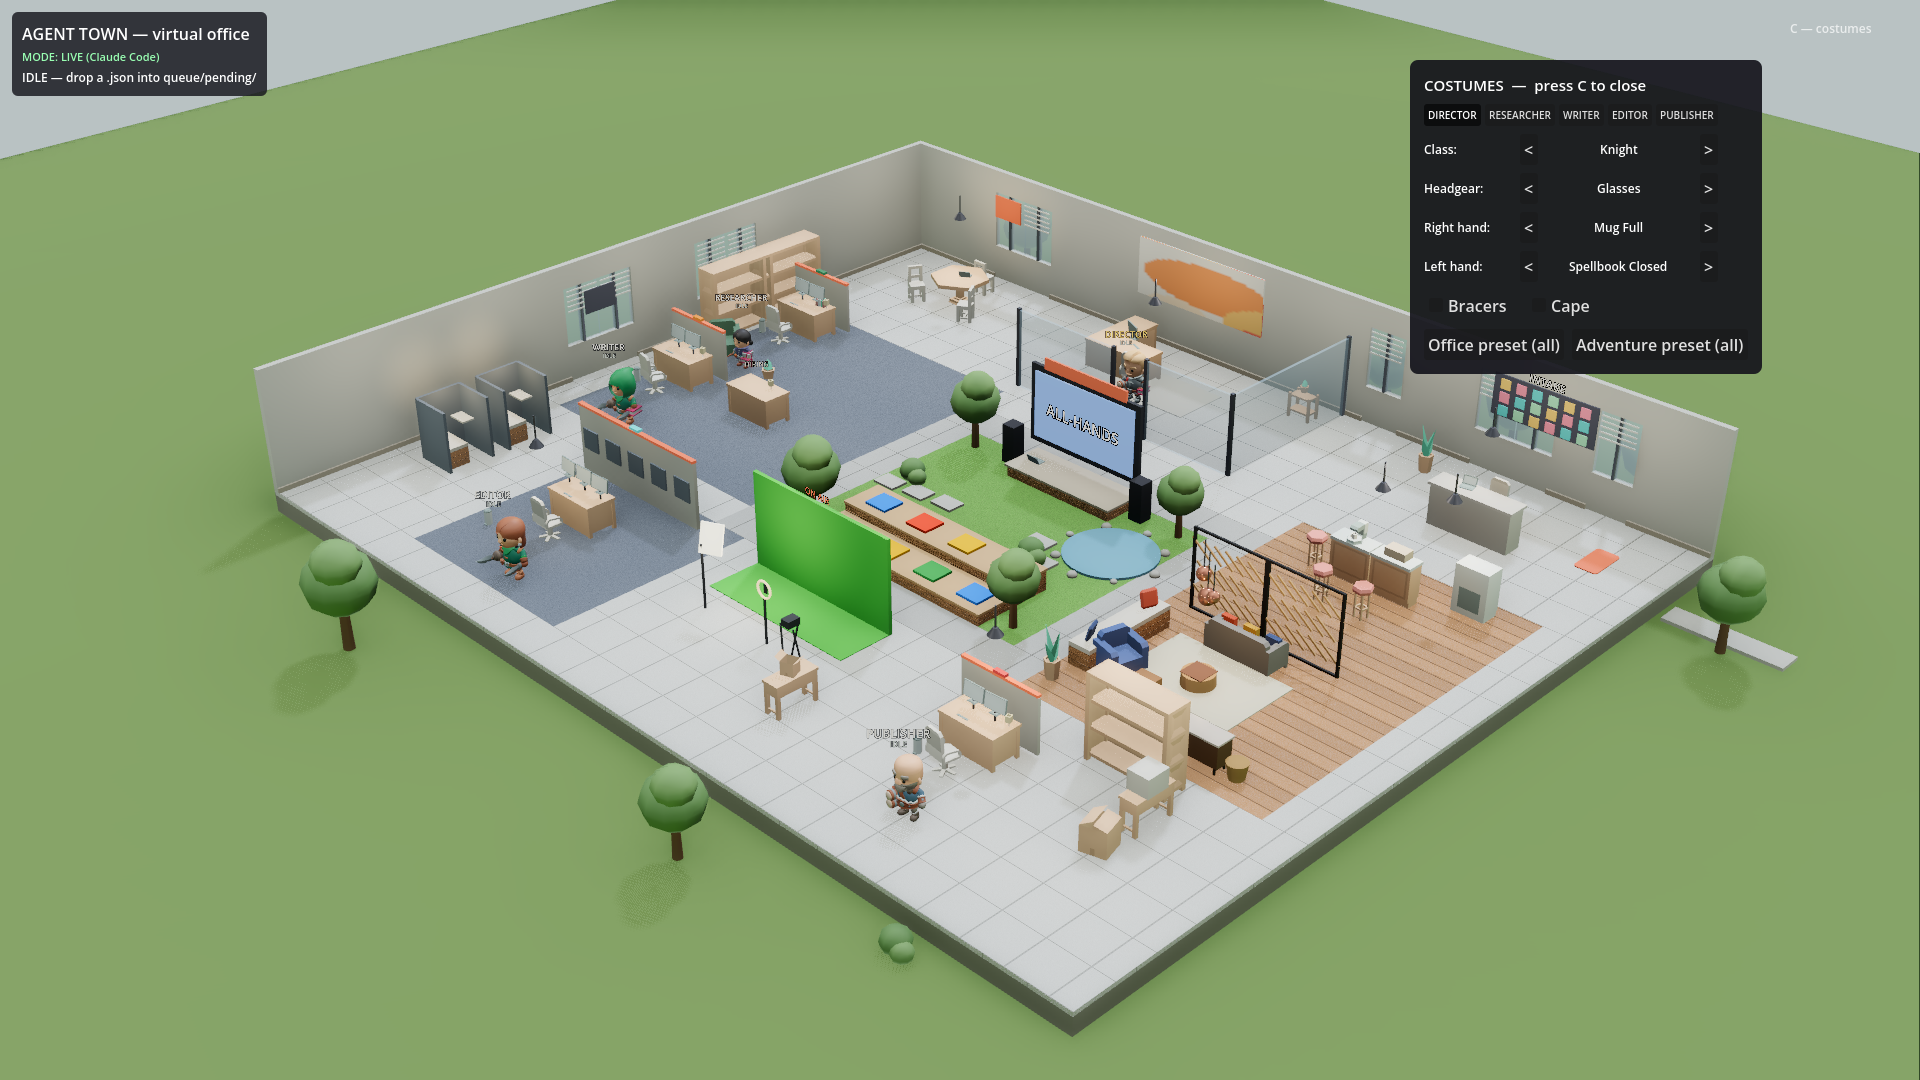
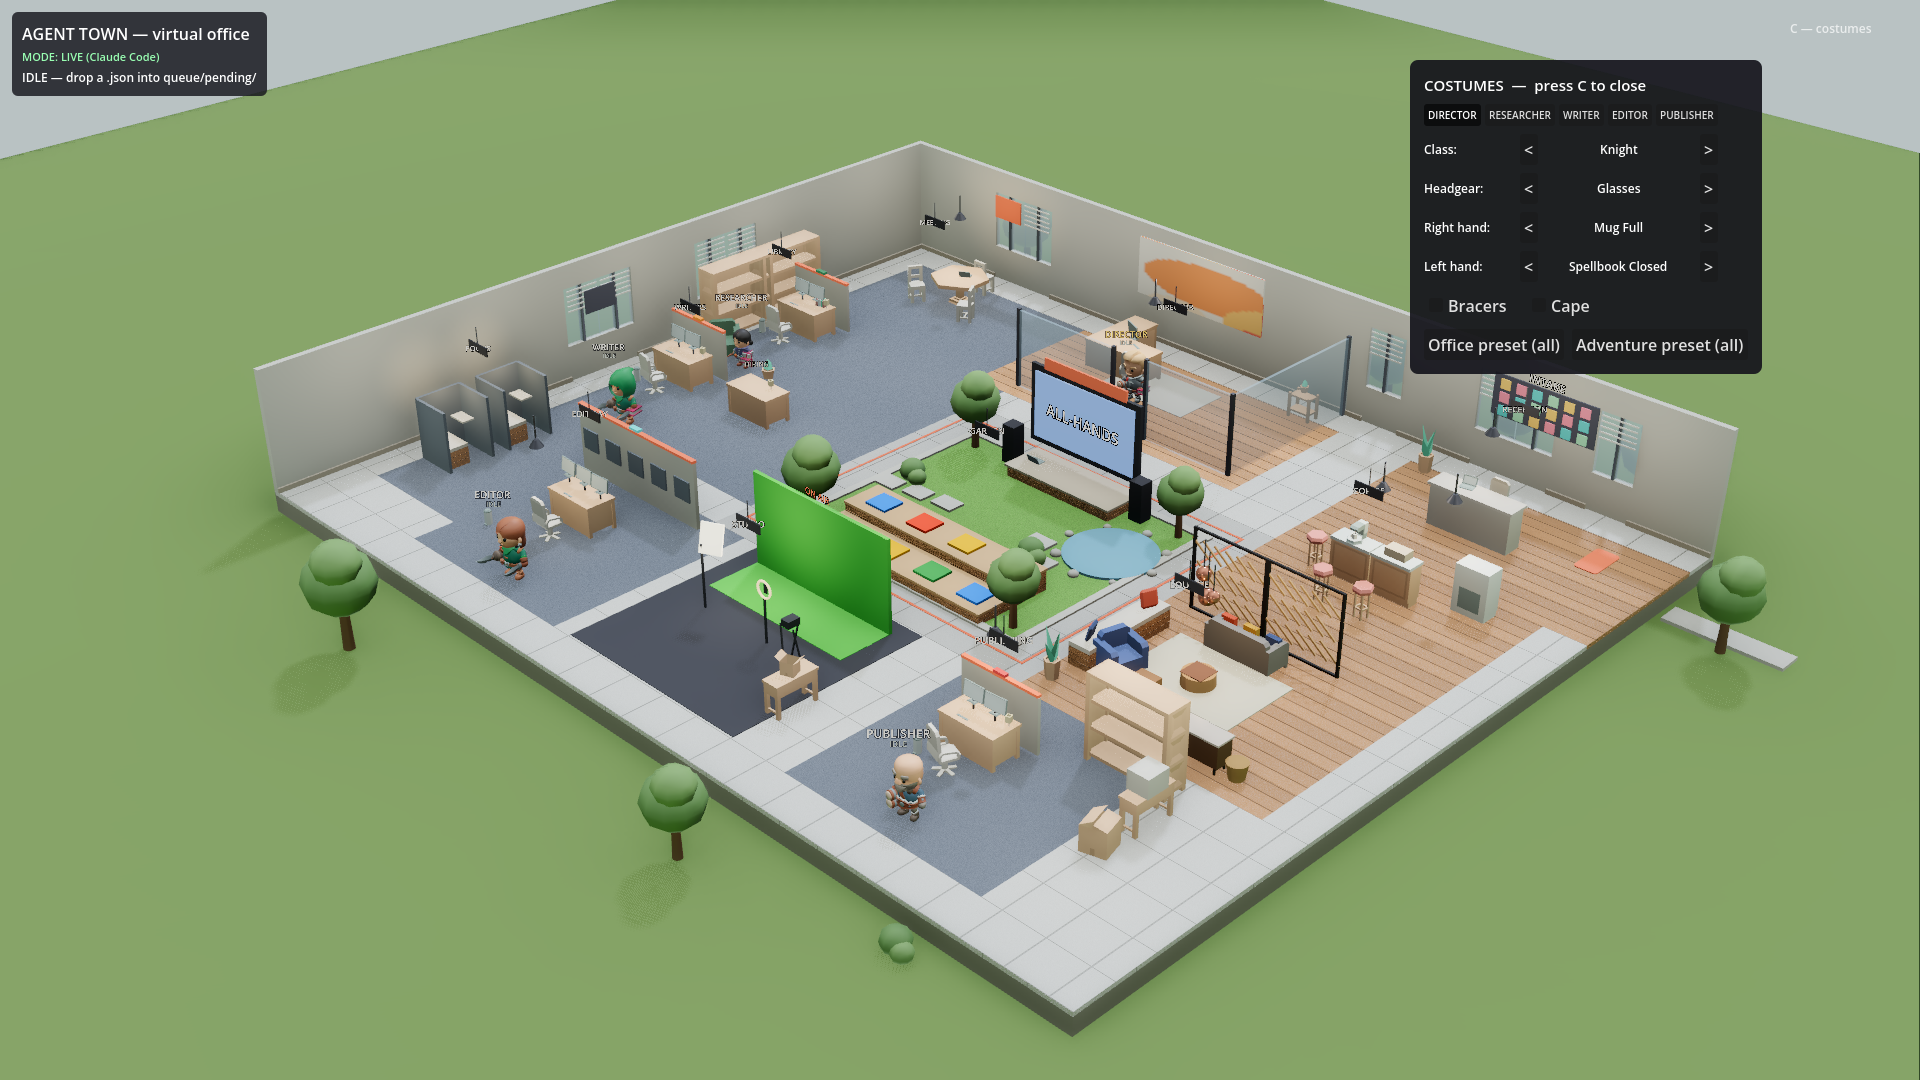
Zone separation + purpose signage (flooring-as-wayfinding)
Per critique: areas didn't separate and rooms didn't declare purpose.
Flooring research: material transitions are the strongest no-wall zone
boundary; hard corridor vs soft task zones; high-contrast circulation.
- per-zone floors: meeting/library/writers/edit/publishing = carpet,
  director = light wood, reception = hospitality deck, studio = matte
  charcoal stage floor, loop corridor stays hard dark concrete
- coral guideline traces the loop corridor's inner edge
- stone border frames the courtyard grass (crisp garden edge)
- hanging signage plates name all 12 zones

diff --git a/tools/generate_assets.py b/tools/generate_assets.py
@@ -91,18 +91,30 @@ def _build_map_rows() -> list:
     for x in (8, 9, 10, 11):
         top[x] = "M"                     # mural behind the director
     rows = ["".join(top)]
+    # Floor materials zone the plan (flooring-as-wayfinding: material
+    # transitions mark zone boundaries; hard corridor vs soft task zones)
     for y in range(1, 20):
         r = ["V" if y in (6, 7, 10, 11) else "v"]   # west windows: library/writers
         for x in range(1, 24):
             c = "."
+            if 1 <= x <= 6 and 1 <= y <= 4:
+                c = "r"                  # meeting nook: soft carpet
+            if 7 <= x <= 14 and 1 <= y <= 4:
+                c = "P"                  # director's office: light wood
+            if 17 <= x <= 23 and 1 <= y <= 4:
+                c = "#"                  # reception: warm hospitality deck
             if 1 <= x <= 7 and 5 <= y <= 12:
                 c = "r"                  # quiet band: library + writers' room
+            if 1 <= x <= 3 and 13 <= y <= 17:
+                c = "r"                  # focus booth alcove
             if 4 <= x <= 8 and 14 <= y <= 18:
                 c = "r"                  # edit bay (acoustic carpet)
+            if 16 <= x <= 20 and 14 <= y <= 18:
+                c = "r"                  # publishing: task carpet
             if 17 <= x <= 22 and 5 <= y <= 13:
                 c = "#"                  # social band: coffee bar + lounge deck
             if (y in (6, 13) and 8 <= x <= 16) or (x in (8, 16) and 6 <= y <= 13):
-                c = ","                  # the loop corridor
+                c = ","                  # the loop corridor (hard, dark)
             if 9 <= x <= 15 and 7 <= y <= 12:
                 c = "g"                  # courtyard garden (walkable)
             r.append(c)